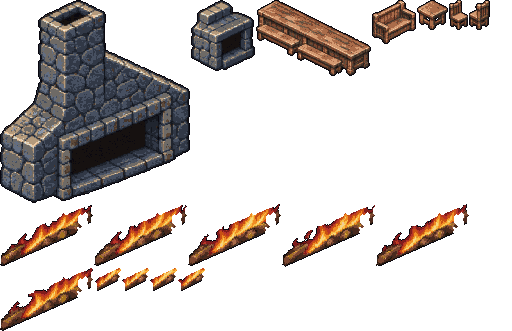
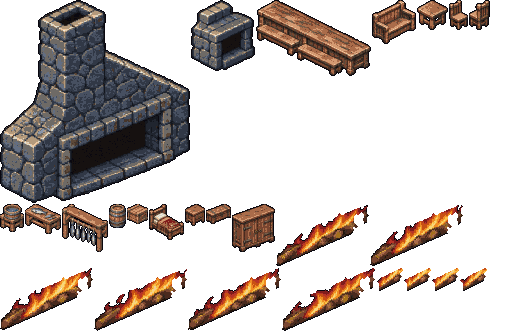
The Halfway Inn's props, pages 3-4 cut and laid (art-wanted 36): the kitchen's tub, worktable and fish racks, the crates and barrels, the beds, and upstairs the beds, crates and the drawer's bedside table
tools/innprops-sheet.py cuts P03 (the tub, the worktable with its fish, the rack of drying fish, a barrel, a crate) and P04 (the bed, the bedside table, the chest
and the cupboard -- the last two cut, not laid: no square names one) into innprops_p1, by height at 8 px a foot as the common room's. js/innprops.js finds them
on In.ROWS (T, the kitchen's two K, a rack each two H, every c a crate or a barrel by turns, z) and dresses the upstairs floor on In.UPROWS too (its beds, its
crates, the single K by the big room's bed; its chimney left the code's, page 9's not cut). The eyes row's look and a dream-list line for the bed's scale.

Changed region(s): [[0.0, 0.6042, 0.75, 1.0], [0.5312, 0.6042, 0.9688, 1.0]]

diff --git a/js/eyes.js b/js/eyes.js
@@ -17,9 +17,9 @@
   var DS = window.DS = window.DS || {};
   var G1 = 'Eyes: first', G2 = 'Eyes: built this week', G3 = 'Eyes: built before, never seen';
   DS.EYES = {
-    'eyes-halfwayinn-props-1104': { pri: 2, group: G2, title: 'The Halfway Inn dressed: the art desk\'s hearths with their fires, the long table, the settle, the table for two and its chairs (11-04)', pt: 'the Halfway Inn and the lake, item 1 (deep16/js/innprops.js, deep16/art/innprops_p1, tools/innprops-sheet.py; art-wanted section 36 pages 1-2) · eyes',
+    'eyes-halfwayinn-props-1104': { pri: 2, group: G2, title: 'The Halfway Inn dressed: the art desk\'s hearths with their fires, the long table, the settle, the table for two and its chairs, the kitchen\'s things, the beds upstairs and down (11-04)', pt: 'the Halfway Inn and the lake, item 1 (deep16/js/innprops.js, deep16/art/innprops_p1, tools/innprops-sheet.py; art-wanted section 36 pages 1-4) · eyes',
       url: 'deep16/?innshow&beat=room&fresh=1104p',
-      look: 'Your prop list for the art department ("a big fire in the center ... a long table across one wall and a bench by the fire, and a table with two seats"), its first two pages back and laid. The beat THE COMMON ROOM at dusk, then walk the house: the big fire is a fieldstone chimney-hearth on its 2 x 4 through the middle, its long mouth on the kitchen side (the face the camera sees) with the fire playing in it -- the common room\'s mouth is the far face, its light on the floor; the long table off the north wall is two sections end to end with their benches on the near side (the far side\'s sitters are behind the table, no bench drawn there); the settle by the fire faces it; the table for two with a chair either side; past the kitchen, the small fireplace in the wall between the two bedrooms, lit. The furniture stands at a figure\'s scale (the pages drew it twice as big for its squares). Walk behind the long table and in front of it: you are hidden behind it and stand before its bench. Still the code\'s for now: the bar counter and the stair (held: drawn off the grid\'s angle and on the other axis), the kitchen\'s, the rooms\', the barn\'s and the yard\'s things, the walls and the roofs (pages 3-9, in hand, the next cut). &props=code shows the code\'s pieces to compare.' },
+      look: 'Your prop list for the art department ("a big fire in the center ... a long table across one wall and a bench by the fire, and a table with two seats"), its first two pages back and laid. The beat THE COMMON ROOM at dusk, then walk the house: the big fire is a fieldstone chimney-hearth on its 2 x 4 through the middle, its long mouth on the kitchen side (the face the camera sees) with the fire playing in it -- the common room\'s mouth is the far face, its light on the floor; the long table off the north wall is two sections end to end with their benches on the near side (the far side\'s sitters are behind the table, no bench drawn there); the settle by the fire faces it; the table for two with a chair either side; past the kitchen, the small fireplace in the wall between the two bedrooms, lit. The furniture stands at a figure\'s scale (the pages drew it twice as big for its squares). Walk behind the long table and in front of it: you are hidden behind it and stand before its bench. In the kitchen: the tub at Elsbeth\'s square, the worktable with its fish and knives, the lake fish drying on two racks along the north wall, crates and barrels; the beds in the two bedrooms; then the UPSTAIRS beat: a bed in each room, the crates and barrels by the chimney, the table by the big room\'s bed (the drawer). Still the code\'s for now: the bar counter and the stair (held: drawn off the grid\'s angle and on the other axis), the barn\'s and the yard\'s things, the walls and the roofs (pages 5-9, in hand, the next cut). &props=code shows the code\'s pieces to compare.' },
     'eyes-halfwayinn-supper-1104b': { pri: 1, group: G1, title: 'THE MEAL on your three notes: the long table off the wall with people on both sides, the narration boxes as tall as their lines, the watch line gone (11-04, again)', pt: 'the Halfway Inn and the lake, item 11 (deep16/js/inn.js In.ROWS row 15, In.TABLE, In.LINES.bed; js/counter.js THE OPEN SCREEN, its narration box) · eyes',
       url: 'deep16/?innshow&beat=room&fresh=1104m',
       look: 'Your notes after the supper: "Table is crammed up against a wall and everyone is on one side. The insight popup and \'fire is let down\' popup break the box they\'re displayed in. / The nobody stands watch can just go unmentioned since we violate it on wagon night". The beat THE COMMON ROOM at dusk: E on the inn lady, STAY THE NIGHT. The long table now stands a row off the north wall, and the room sits on both sides of it: Barley, the inn lady and Aurdin on the far side facing you, Vivian and Lymen on the near side with their backs to you, Doran at the west end, the traveler at the table for two; the camera centres the six under the words. The narrations in the middle (the two silent Insight reads in blue when the house is read, and "The fire is let down...") each sit in a box as tall as their lines, the OK under the last line, one page. The close reads "A room under the eaves." with no word about a watch. Should: the table clear of the wall, faces on the far side, no line touching the box\'s edge or the OK.' },

diff --git a/deep16/js/innprops.js b/deep16/js/innprops.js
@@ -3,7 +3,8 @@
    "Prop request list for the art-department, wall tilings as needed as well"), cut by tools/innprops-sheet.py into deep16/art/innprops_p1 (an atlas of named pieces,
    each with its footprint and its anchor -- the back corner of the footprint on the ground).
    Laid on the inn's floor (js/inn.js In.ROWS) while the party is in the house: the big fire's hearth on the chimney's 2 x 4 (its long mouth to the kitchen, the face the
-   camera sees, its fire playing in it), the small one between the bedrooms, the long table with its benches, the settle by the fire, the table for two and its chairs.
+   camera sees, its fire playing in it), the small one between the bedrooms, the long table with its benches, the settle by the fire, the table for two and its chairs; the kitchen's
+   tub, worktable and the fish on their racks, the crates and barrels, the beds -- and upstairs the beds, the crates and the table by the big room's bed.
    Each piece is found by its glyphs on the rows (the long table wherever its six K stand), so the floor can move under it; the code's own block on those squares
    (js/iso.js blockCanvas, the chimney's rock) gives way to it, and the squares' rules are the floor's as before.
    THE SORT: a piece over several squares is cut a square at a time -- each pixel to the front-most square whose column it stands over -- and each cut sorted at its own
@@ -51,12 +52,18 @@
   function now() { return (typeof performance !== 'undefined' ? performance.now() : Date.now()) / 1000; }
 
   // where each piece stands, found on the floor's rows by its glyphs: [name, gx, gy, a, b] (a squares along x, b along y), and the fires over their hearths
-  IP.find = function (rows) {
+  IP.find = function (rows, up) { // (up: the floor upstairs -- its chimney has no mouth, page 9's, not cut yet)
     var at = function (x, y) { var r = rows[y]; return r ? r.charAt(x) : ''; }, out = [], flames = [], H = rows.length, Wd = rows[0].length;
-    var x, y, n;
+    var x, y, n, cn = 0;
     for (y = 0; y < H; y++) for (x = 0; x < Wd; x++) {
       var c = at(x, y);
-      if (c === 'C' && at(x - 1, y) !== 'C' && at(x, y - 1) !== 'C') { var a = 0, b = 0; while (at(x + a, y) === 'C') a++; while (at(x, y + b) === 'C') b++; if (a === 2 && b === 4) { out.push(['inn_hearth', x, y, 2, 4]); flames.push(['inn_flameC', x, y]); } }
+      if (!up && c === 'C' && at(x - 1, y) !== 'C' && at(x, y - 1) !== 'C') { var a = 0, b = 0; while (at(x + a, y) === 'C') a++; while (at(x, y + b) === 'C') b++; if (a === 2 && b === 4) { out.push(['inn_hearth', x, y, 2, 4]); flames.push(['inn_flameC', x, y]); } }
+      if (c === 'T') out.push(['inn_tub', x, y, 1, 1]);                                          // (Elsbeth's tub)
+      if (c === 'z') out.push(['inn_bed', x, y, 1, 1]);
+      if (c === 'c') out.push([cn++ % 2 ? 'inn_barrel' : 'inn_crate', x, y, 1, 1]);              // (the crates, every other one a barrel)
+      if (c === 'H' && at(x - 1, y) !== 'H') { n = 0; while (at(x + n, y) === 'H') n++; for (var h = 0; h + 2 <= n; h += 2) out.push(['inn_rack', x + h, y, 2, 1]); } // (the fish drying along the wall, a rack each two squares)
+      if (c === 'K' && at(x - 1, y) !== 'K' && at(x + 1, y) === 'K' && at(x + 2, y) !== 'K') out.push(['inn_worktable', x, y, 2, 1]); // (the kitchen's two)
+      if (up && c === 'K' && at(x - 1, y) !== 'K' && at(x + 1, y) !== 'K') out.push(['inn_bedside', x, y, 1, 1]); // (the table by the big room's bed: the drawer)
       if (c === 'f' && at(x, y - 1) === 'B' && at(x, y + 1) === 'B') { out.push(['inn_hearthS', x, y, 1, 1]); flames.push(['inn_flameS', x, y]); }
       if (c === 'K' && at(x - 1, y) !== 'K') {
         n = 0; while (at(x + n, y) === 'K') n++;
@@ -71,7 +78,7 @@
   // the pieces laid on the loaded floor: each square of each a prop of its own, sorted with the figures; the code's block and the chimney's rock under them let go
   IP.dress = function (m) {
     if (!IP.on || !D.SHEETS || !D.SHEETS[SHEET]) return;
-    var got = IP.find(In.ROWS), mine = {};
+    var up = m.def && m.def.key === In.UP, got = IP.find(up ? In.UPROWS : In.ROWS, up), mine = {};
     m.props = m.props.filter(function (p) { return !p.innProp; });
     got.pieces.forEach(function (pc) {
       for (var i = 0; i < pc[3]; i++) for (var j = 0; j < pc[4]; j++) (function (i, j) {
@@ -94,5 +101,5 @@
     m.sorted = null; IP.laid = got;
   };
   var load0 = iso.load;
-  iso.load = function (def) { var m = load0.apply(this, arguments); if (def && def.key === In.KEY && def.inside === 'inn') IP.dress(m); return m; };
+  iso.load = function (def) { var m = load0.apply(this, arguments); if (def && ((def.key === In.KEY && def.inside === 'inn') || def.key === In.UP)) IP.dress(m); return m; };
 })();

diff --git a/deep16/data/sprites.js b/deep16/data/sprites.js
@@ -7048,7 +7048,7 @@
 },
 "innprops_p1": {
 "_note": "the Halfway Inn's props (tools/innprops-sheet.py, the art desk's return of art-wanted section 36, 2026-11-04): each piece a box x,y,w,h and its anchor ax,ay -- the back corner of its footprint on the ground; `foot` its squares along the grid's x and y; the flames each a frame over its hearth, the hearth's own anchor. js/innprops.js lays them on the inn's floor and cuts each a square at a time for the sort.",
-"image": "art/innprops_p1.png?v=2ce9788694",
+"image": "art/innprops_p1.png?v=34a31c17da",
 "fw": 64,
 "fh": 64,
 "ax": 32,
@@ -7083,6 +7083,42 @@
 "inn_chairB": [
 1,
 1
+],
+"inn_tub": [
+1,
+1
+],
+"inn_worktable": [
+2,
+1
+],
+"inn_rack": [
+2,
+1
+],
+"inn_barrel": [
+1,
+1
+],
+"inn_crate": [
+1,
+1
+],
+"inn_bed": [
+1,
+1
+],
+"inn_bedside": [
+1,
+1
+],
+"inn_chest": [
+1,
+1
+],
+"inn_cupboard": [
+2,
+1
 ]
 },
 "fps": {
@@ -7097,10 +7133,19 @@
 "inn_table2": "417,0,31,30,16,6",
 "inn_chairA": "449,0,19,30,10,9",
 "inn_chairB": "469,0,21,30,10,9",
-"inn_flameC": "0,204,93,63,58,-6 94,204,93,63,58,-6 188,204,93,63,58,-6 282,204,93,63,58,-6 376,204,93,63,58,-6 0,268,93,63,58,-6",
-"inn_flameS": "94,268,27,23,5,8 122,268,27,23,5,8 150,268,27,23,5,8 178,268,27,23,5,8"
+"inn_tub": "0,204,24,28,12,6",
+"inn_worktable": "25,204,36,30,2,-3",
+"inn_rack": "62,204,46,48,7,12",
+"inn_barrel": "109,204,17,24,8,4",
+"inn_crate": "127,204,21,20,10,-1",
+"inn_bed": "149,204,35,36,18,11",
+"inn_bedside": "185,204,20,22,10,1",
+"inn_chest": "206,204,25,20,12,-2",
+"inn_cupboard": "232,204,43,48,6,13",
+"inn_flameC": "276,204,93,63,58,-6 370,204,93,63,58,-6 0,268,93,63,58,-6 94,268,93,63,58,-6 188,268,93,63,58,-6 282,268,93,63,58,-6",
+"inn_flameS": "376,268,27,23,5,8 404,268,27,23,5,8 432,268,27,23,5,8 460,268,27,23,5,8"
 },
-"source": "generated by the art desk (2026-11-04, ART-36 pages 1-2: deep16/_src/halfway-inn/ART-36-PAGES-01-09), cut by tools/innprops-sheet.py"
+"source": "generated by the art desk (2026-11-04, ART-36 pages 1-4: deep16/_src/halfway-inn/ART-36-PAGES-01-09), cut by tools/innprops-sheet.py"
 },
 "insectswarm_p1": {
 "image": "art/insectswarm_p1.png?v=bc8bccf1ae",

diff --git a/deep16/index.html b/deep16/index.html
@@ -77,7 +77,7 @@
 <script src="js/art.js?v=e1ce4cf012"></script>
 <script src="data/cavern.js?v=647c1a184a"></script>
 <script src="data/maps.js?v=bef56a5de9"></script>
-<script src="data/sprites.js?v=630f024ea9"></script>
+<script src="data/sprites.js?v=7f53e2d0ee"></script>
 <script src="js/sprites.js?v=57d9f5af3a"></script>
 <script src="js/save.js?v=6a1c92ba61"></script>
 <script src="data/spells.js?v=ae0037fb81"></script>
@@ -147,7 +147,7 @@
 <script src="js/wagon.js?v=21cf58f0f8"></script>
 <script src="js/chase.js?v=e248ea5dcb"></script>
 <script src="js/secondact.js?v=ff696a1336"></script>
-<script src="js/innprops.js?v=ebcc3e572d"></script>
+<script src="js/innprops.js?v=a445651901"></script>
 <script src="js/cradle.js?v=3fbc58d55d"></script>
 <script src="js/overworld.js?v=7a1c5f8e45"></script>
 <script src="js/simple.js?v=d0ee2b1947"></script>
@@ -170,7 +170,7 @@
 <script src="js/skyshow.js?v=7151daab7a"></script>
 <script src="js/barleyshow.js?v=186123cdd5"></script>
 <script src="js/rulesshow.js?v=ba52d8fe7d"></script>
-<script src="../js/eyes.js?v=049d0fc473"></script>
+<script src="../js/eyes.js?v=97cbb72a53"></script>
 <script src="js/onegallery.js?v=198c5b983d"></script>
 <script src="js/situations16.js?v=b62d10b1b1"></script>
 <script src="js/main.js?v=20a7f0cc58"></script>

diff --git a/tools/innprops-sheet.py b/tools/innprops-sheet.py
@@ -52,6 +52,17 @@ PIECES = {
     'inn_table2':   dict(page='P02', box=(1298, 208, 1500, 405), foot=(1, 1), h=30),
     'inn_chairA':   dict(page='P02', box=(52, 592, 190, 802), foot=(1, 1), h=30),                     # (facing +x)
     'inn_chairB':   dict(page='P02', box=(210, 618, 348, 805), foot=(1, 1), h=30),                    # (facing +y)
+    # PAGE 3 -- the kitchen (each drawn along the grid's x where it has a length: the worktable, the rack), by height as the furniture above
+    'inn_tub':      dict(page='P03', box=(95, 160, 350, 460), foot=(1, 1), h=28),
+    'inn_worktable': dict(page='P03', box=(505, 150, 925, 505), foot=(2, 1), h=30),
+    'inn_rack':     dict(page='P03', box=(1170, 30, 1670, 555), foot=(2, 1), h=48),                   # (the fish drying on a rack: laid twice along the shelf's four)
+    'inn_barrel':   dict(page='P03', box=(132, 596, 306, 840), foot=(1, 1), h=24),
+    'inn_crate':    dict(page='P03', box=(604, 606, 841, 836), foot=(1, 1), h=20),
+    # PAGE 4 -- the rooms: the bed along x, its head at the upper left (a bed by its height is a child's cot, by its square a giant's: between)
+    'inn_bed':      dict(page='P04', box=(325, 36, 716, 437), foot=(1, 1), h=36),
+    'inn_bedside':  dict(page='P04', box=(1162, 120, 1394, 370), foot=(1, 1), h=22),
+    'inn_chest':    dict(page='P04', box=(325, 530, 687, 824), foot=(1, 1), h=20),                    # (cut, not laid: no square names one yet)
+    'inn_cupboard': dict(page='P04', box=(1085, 414, 1492, 863), foot=(2, 1), h=48),                  # (cut, not laid)
 }
 HELD = {'inn_counter': 'P02 lower centre: drawn near frontal (its top 0.13 a px across, not the grid\'s 0.5) and its rail on the customers\' side, which on the floor is '
                        'the side away from the camera -- held (the code\'s counter stands)',
@@ -219,7 +230,7 @@ def main():
                      'hearth\'s own anchor. js/innprops.js lays them on the inn\'s floor and cuts each a square at a time for the sort.',
             'image': 'art/innprops_p1.png', 'fw': 64, 'fh': 64, 'ax': 32, 'ay': 48, 'prop': True, 'anims': {},
             'foot': {nm: got[nm]['foot'] for nm in PIECES}, 'fps': {'inn_flameC': 8, 'inn_flameS': 8}, 'tiles': tiles,
-            'source': 'generated by the art desk (2026-11-04, ART-36 pages 1-2: deep16/_src/halfway-inn/ART-36-PAGES-01-09), cut by tools/innprops-sheet.py'}
+            'source': 'generated by the art desk (2026-11-04, ART-36 pages 1-4: deep16/_src/halfway-inn/ART-36-PAGES-01-09), cut by tools/innprops-sheet.py'}
     with open(os.path.join(pix.ART, 'innprops_p1.json'), 'w', encoding='utf-8') as fh:
         json.dump(meta, fh, indent=1)
     print('innprops_p1:', sheet.shape[1], 'x', sheet.shape[0], '|', ', '.join('%s %dx%d k%.2f' % (nm, got[nm]['g'].shape[1], got[nm]['g'].shape[0], got[nm]['k']) for nm in PIECES))

diff --git a/deep16-dream-polish.md b/deep16-dream-polish.md
@@ -50,3 +50,4 @@ Griz, 10-30, to the lanes desk, on Talmok's walks that repeat a leg: *"gimpy art
 - 2026-11-04 · `amaramounted_p1` the grey · Drawn from the description (the art desk had no `horsegrey_p1`): a darker dappled grey than the team's pale coat. · A redraw in `horsegrey_p1`'s coat.
 - 2026-11-04 · `elsbethhome_p1` N (held) · Her two views from behind at the tub (Scrub 6, Idle 4) are drawn fused to an oversized tub on a stand, her hands on its rim. Her auburn hair is the tub's wood at this palette, so no colour cut parts them. · A redraw of her alone from behind, her hands where the inn's one-square tub's rim is.
 - 2026-11-04 · `pt_elsbethCandles` work (held) · The art desk held her Work page: the working hand switches between the lighting, the offer and the taking back. No work row. · A redraw: one hand through the lighting, the offer and the return.
+- 2026-11-04 · `innprops_p1` the bed (art-wanted 36 PAGE 4) · Drawn short for its height (a tall headboard on a bed about 1.6 to 1 long), so by its height it is a child's cot and by its square a giant's; cut between, 36 px whole on its one square, and it reads small beside a figure. · A redraw at the figure's scale: a bed about a figure and a third long along the grid's x, its headboard at the figure's waist.
